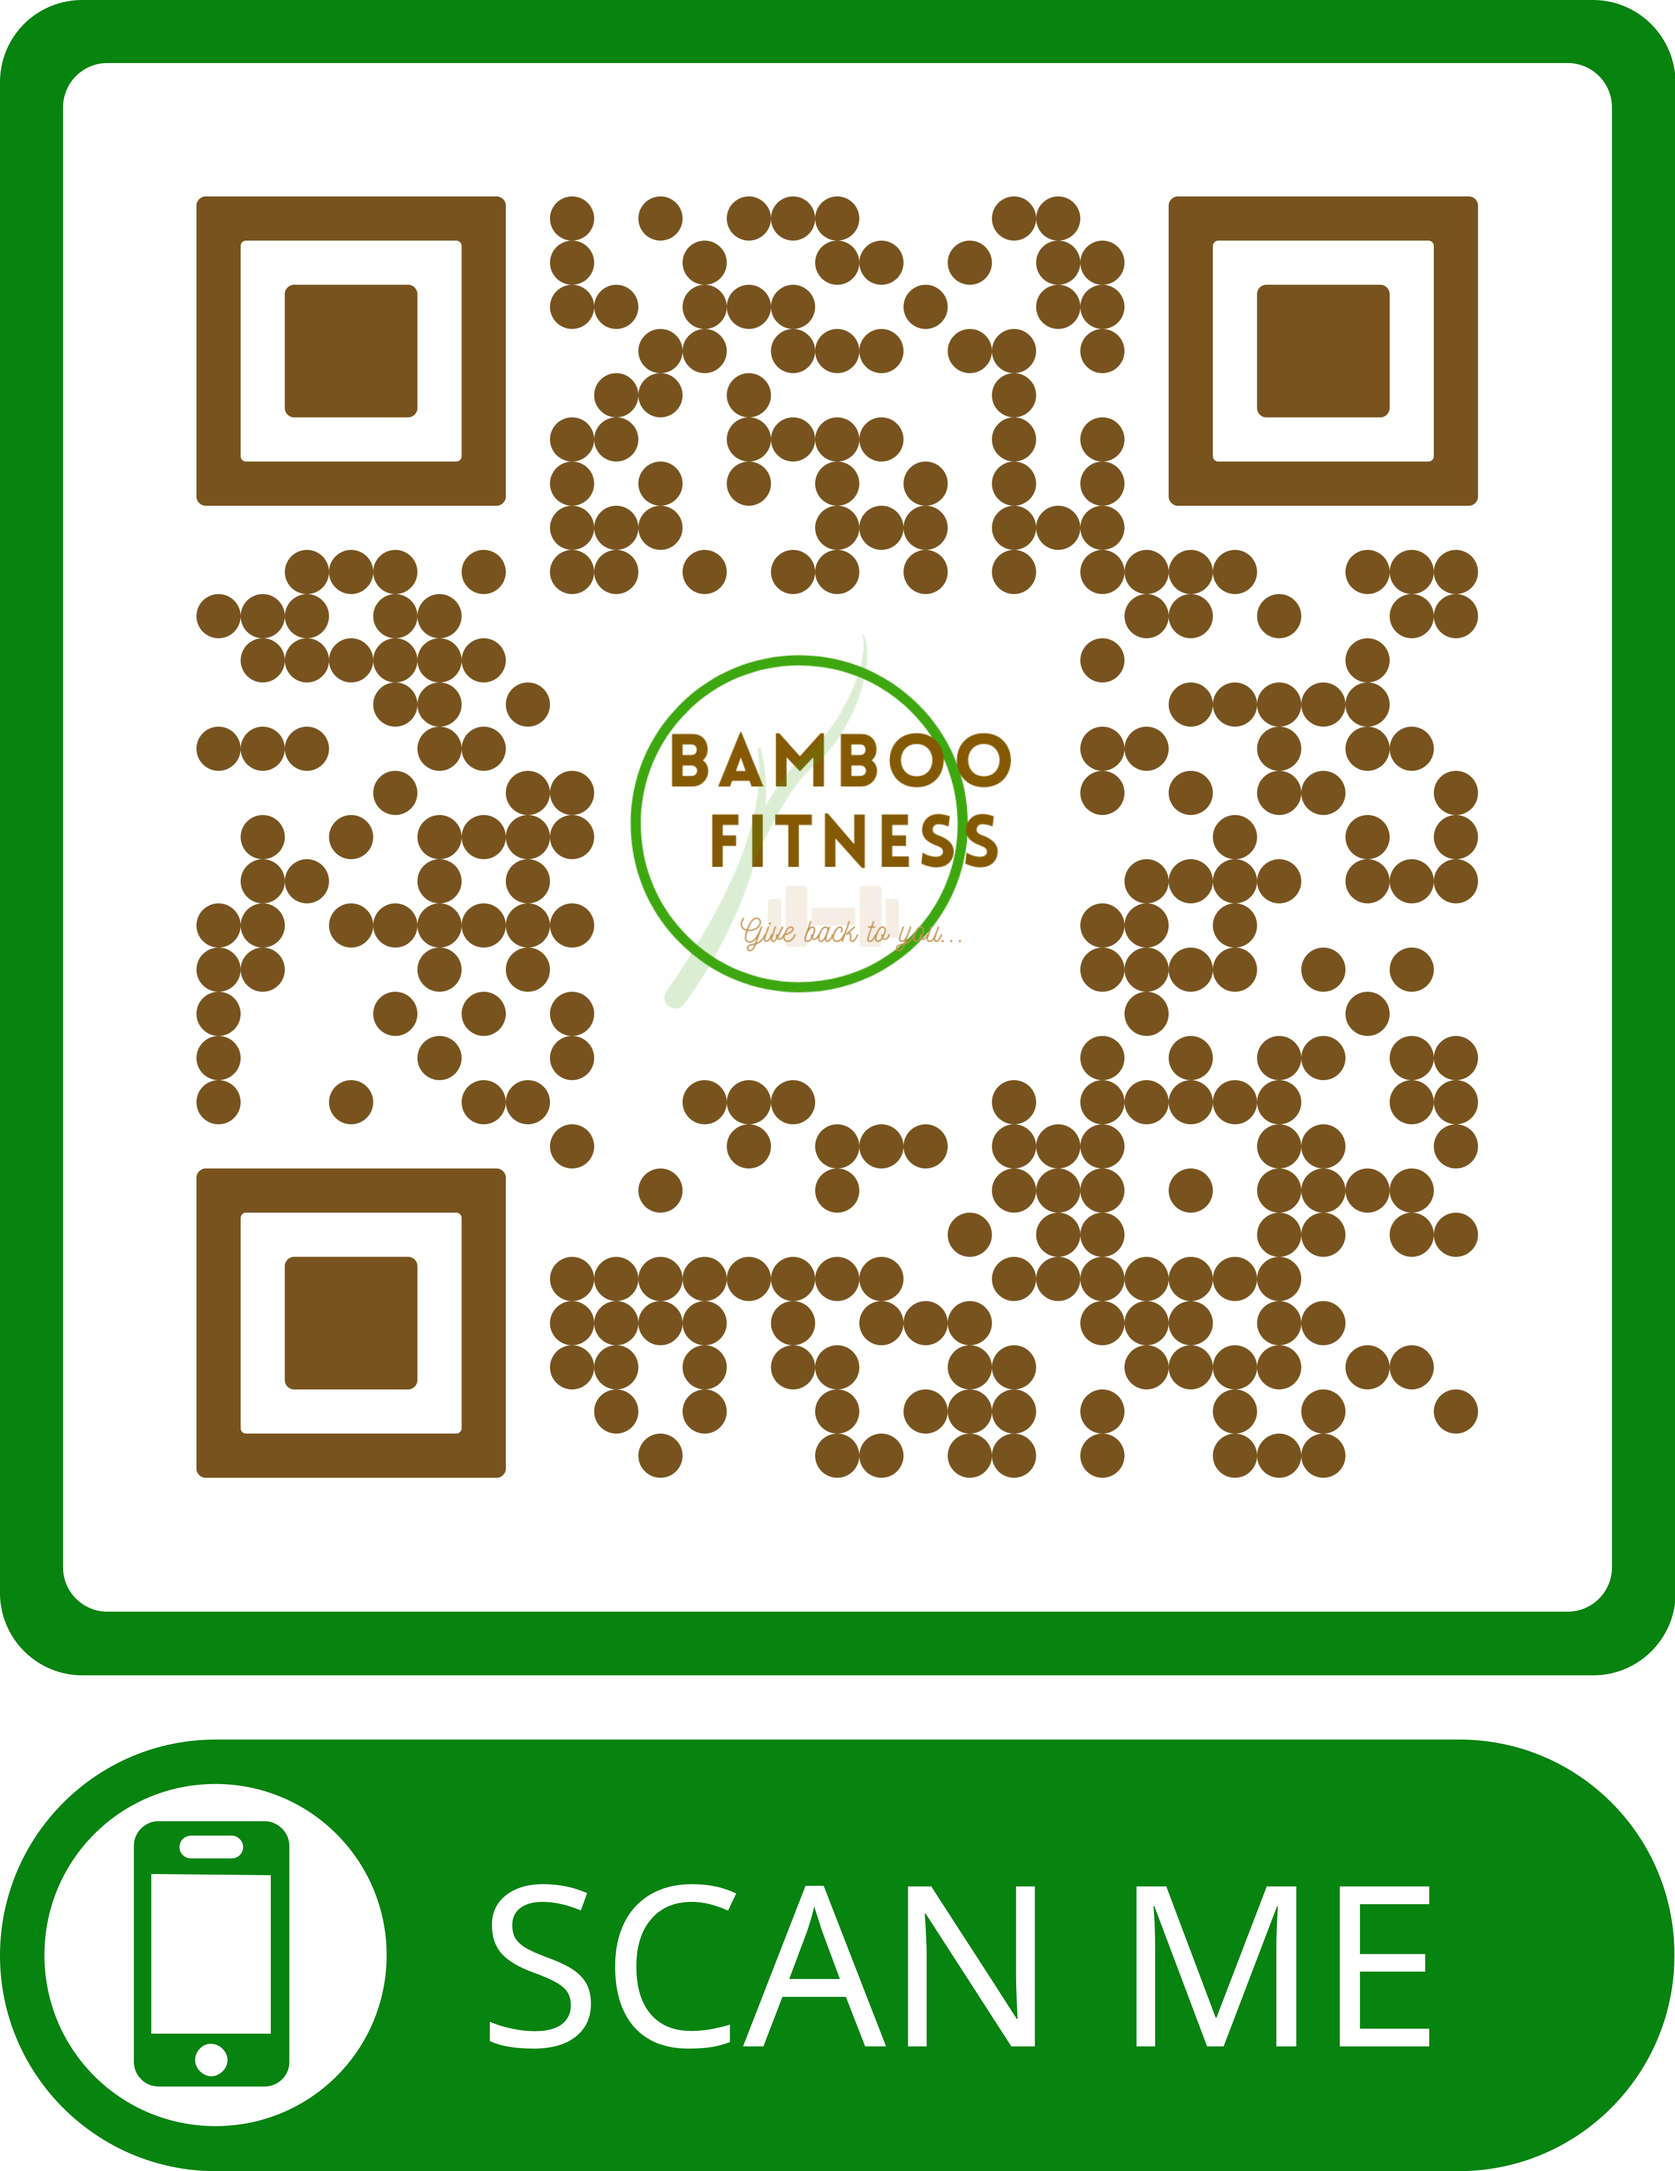
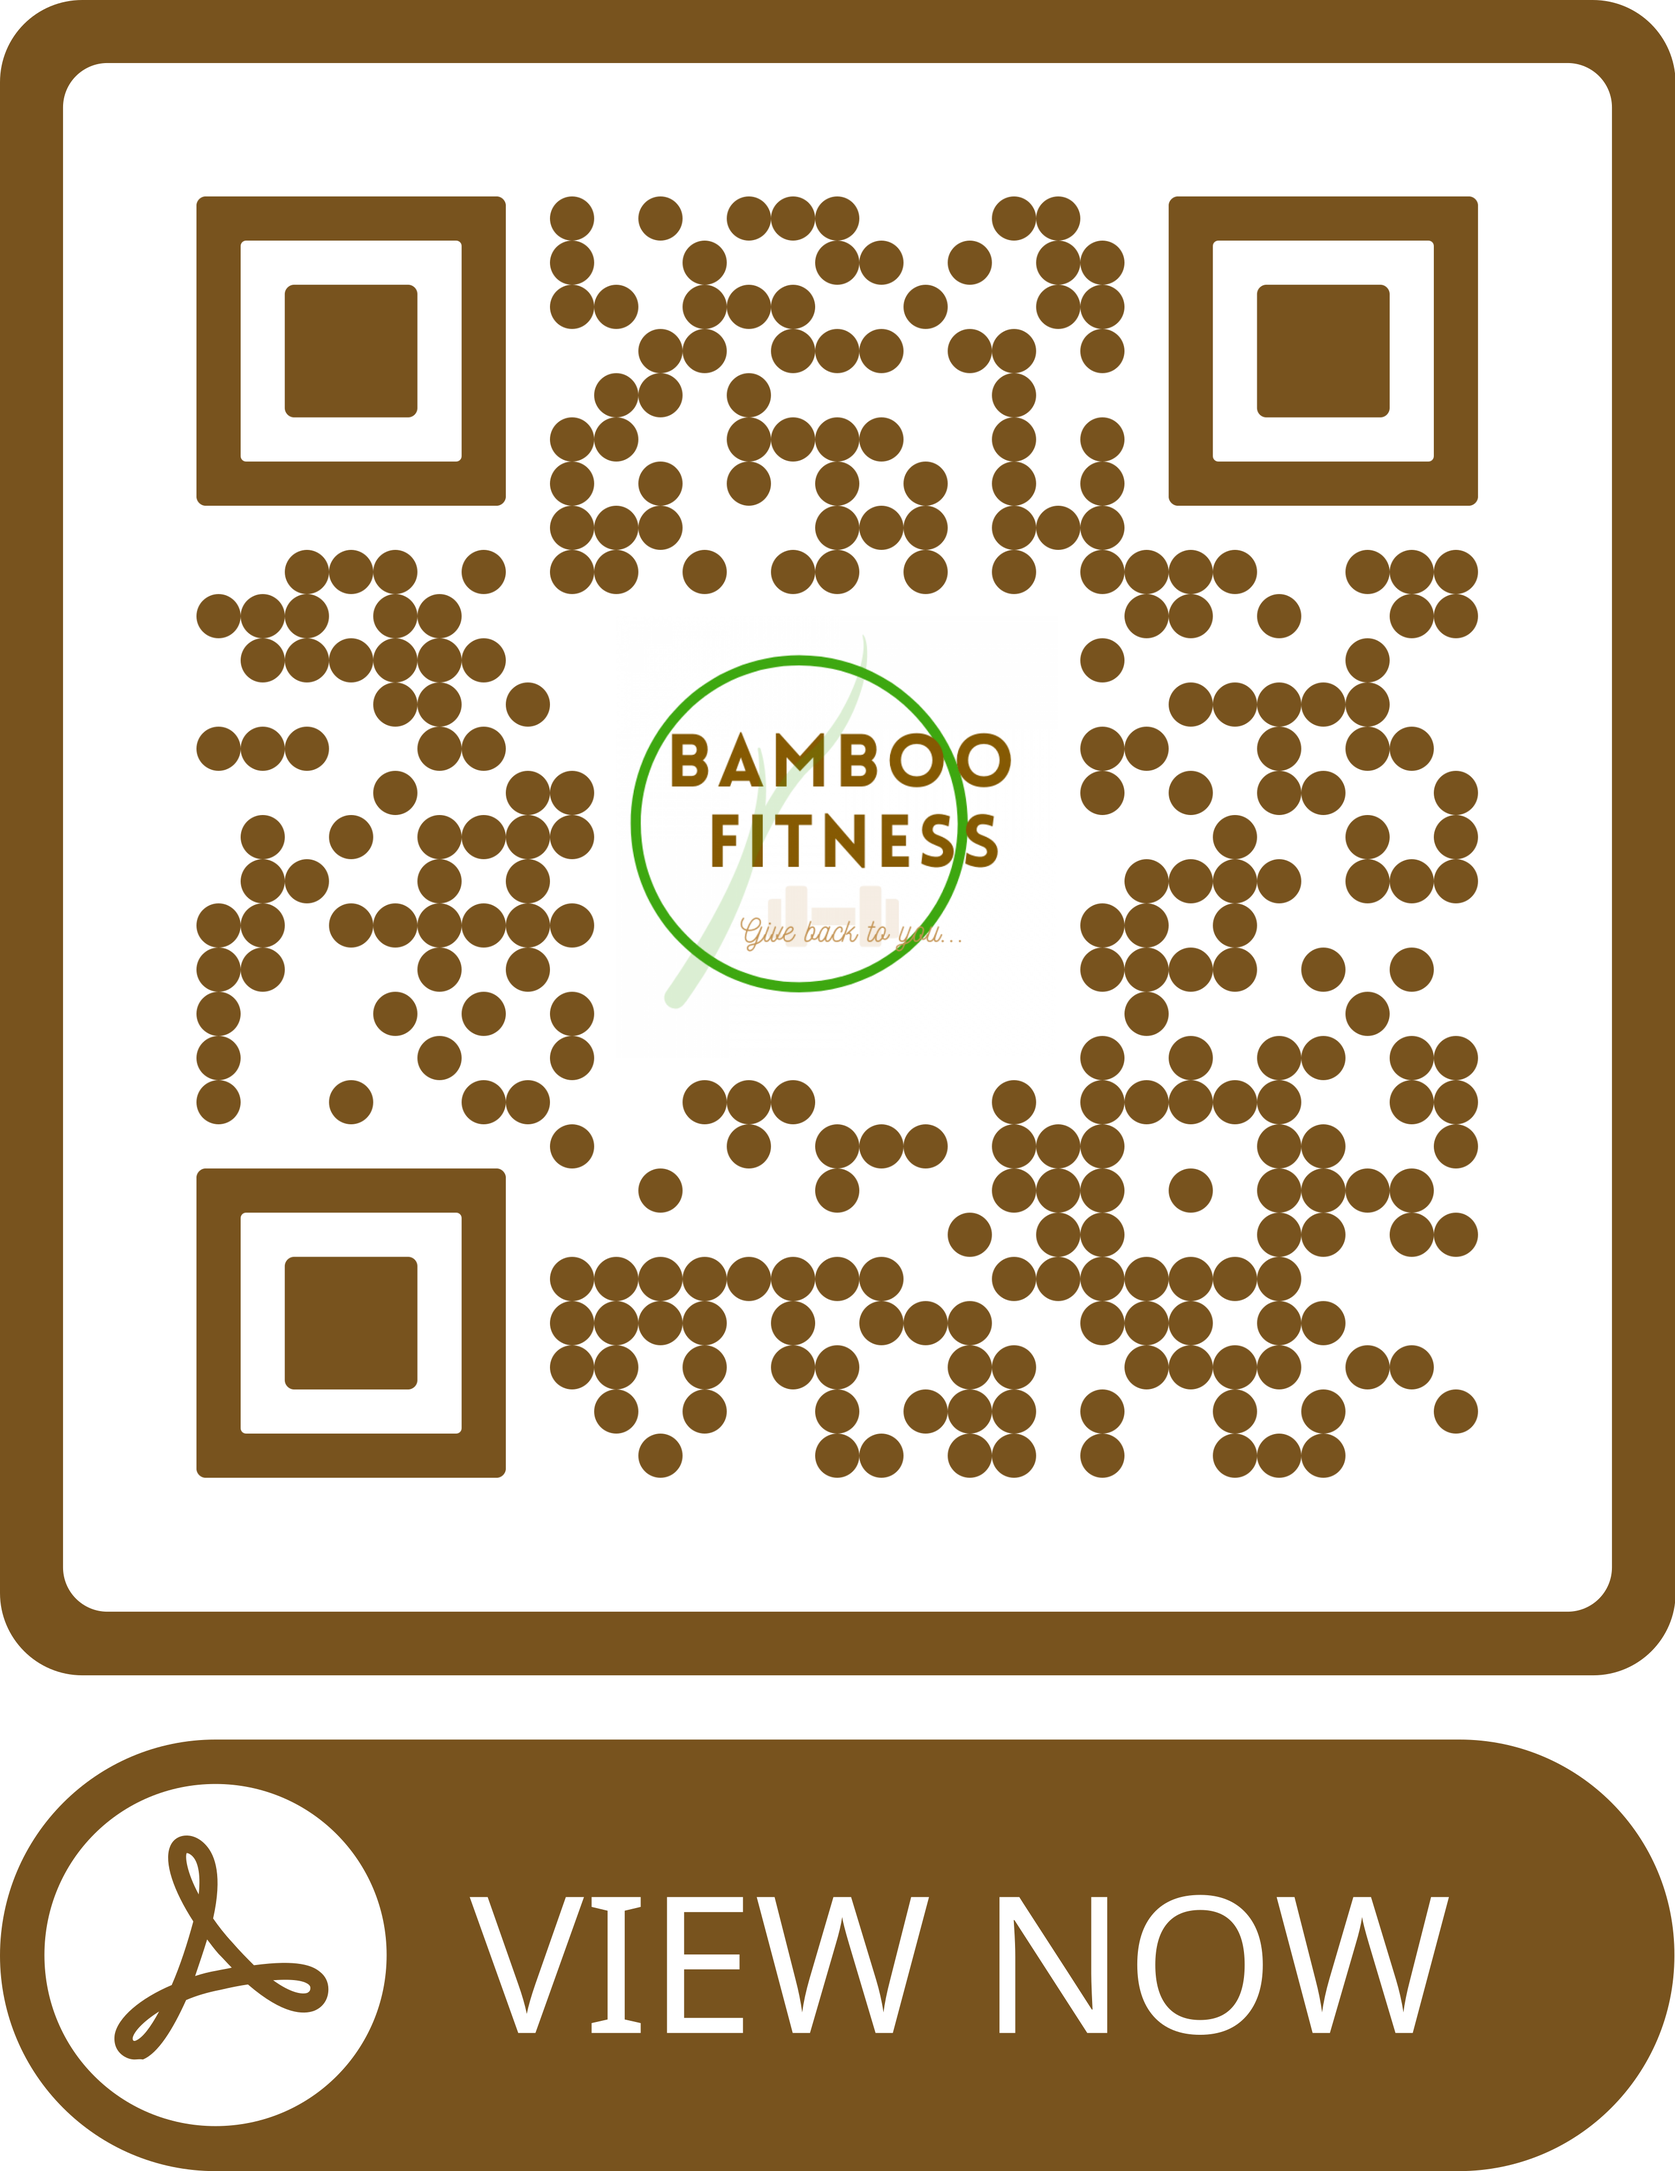
Readme file developed and qrcode + pdf link fixed

Changed region(s): [[0.0, 0.0, 1.0, 1.0]]

diff --git a/gallery.html b/gallery.html
@@ -97,22 +97,22 @@
 			<h2 class="membership-title-white uppercase" style="margin: auto;margin-bottom: 40px;">Videos</h2>
 				<div class="row videos">
 					<div class="col-lg-4 col-sm-12">
-						<video width="400" height="300" controls>
+						<a target="_blank" href="assets/videos/weights.mp4"><video width="400" height="300" controls>
 							<source src="./assets/videos/lift-weights.mp4" type="video/mp4" />
 							Video by Pressmaster from Pexels
-						</video>
+						</video></a>
 					</div>
 					<div class="col-lg-4 col-sm-12">
-						<video width="400" height="300" controls>
+						<a target="_blank" href="assets/videos/teach-gym.mp4"><video width="400" height="300" controls>
 							<source src="./assets/videos/teach-gym.mp4" type="video/mp4" />
 							Video by Pressmaster from Pexels
-						</video>
+						</video></a>
 					</div>
 					<div class="col-lg-4 col-sm-12">
-						<video width="400" height="300" controls>
+						<a target="_blank" href="assets/videos/train.mp4"><video width="400" height="300" controls>
 							<source src="./assets/videos/train.mp4" type="video/mp4" />
 							Video by Pressmaster from Pexels
-						</video>
+						</video></a>
 					</div>
 				</div>
 			</div>

diff --git a/classes.html b/classes.html
@@ -375,7 +375,7 @@
                                 >
                                     Close
                                 </button>
-                            <a href="assets/Class-Timetable.pdf" target="_blank"><button type="button" class="btn-cta">
+                            <a href="documents/Class-Timetable.pdf" target="_blank"><button type="button" class="btn-cta">
                                     DOWNLOAD PDF <i class="fas fa-file-pdf"></i>
                                     </button></a>
                         </div>

diff --git a/README.md b/README.md
@@ -1,22 +1,22 @@
-<img src="assets/images/BF-LOGO.png" style="margin: 0;">
+<img style="width:50%; margin:auto;" src="assets/images/BF-LOGO.png" style="margin: 0;">
 
-# Bamboo Fitness
+# **_Bamboo Fitness_**
 
-### A succint, accessible and expandable website for a gym and fitness company called 'Bamboo Fitness. The website allows current and potential members to access information about the gym while understanding the unique branding and ethos of the company.
-### The site encourages the advertisement of its charitable donations taken from the membership fees. The website offers a number of pages that increases the flow of current and new business to the company.
-### BUSINESS GOALS OF WEBSITE
-* ### To create an online presence for the gym as a service and unqique brand
+### _A succint, accessible and expandable website for a gym and fitness company called 'Bamboo Fitness. The website allows current and potential members to access information about the gym while understanding the unique branding and ethos of the company._
+### _The site encourages the advertisement of its charitable donations taken from the membership fees. The website offers a number of pages that increases the flow of current and new business to the company._
+### **BUSINESS GOALS OF WEBSITE**
+* ### To create an online presence for the gym as a service and unique brand
 * ### To generate new busines by advertising their services with attractive incentives
 * ### To maintian current business by providing full services information e.g class schedules & contact info
-### USER GOALS OF WEBSITE
-* ### Users as CURRENT members of gym
+### **USER GOALS OF WEBSITE**
+* ### Users as **CURRENT** members of gym
     * ### View opening hours of gym 
     * ### View the types of classes available
     * ### View information about the gym instructors and management
     * ### View/Download the Class Timeable
     * ### View Images and Videos from the gym in the Gallery
     * ### Access to main channels of contact information
-* ### Users as POTENTIAL members of gym
+* ### Users as **POTENTIAL** members of gym
     * ### To learn about the gym and its services
     * ### Direct link to pursuing a membership with the gym 
     * ### To access information about the memberships available e.g. prices
@@ -24,26 +24,32 @@
 
 
 
-## UX  
-### Who is the website for?
-#### The ideal new client for Bamboo Fitness:
-* Has an interest in joining the gym and fitness
-* Has disposable Income
-* Local resident or within a reasonable travel radius
-* Wants to improve their fitness 
-* Likes to give to charity
-* Has an interest in the environment
+## **UX** 
+### **Who is the website for?**
+### The ideal new client for Bamboo Fitness:
+* ### Has an interest in joining the gym and fitness
+* ### Has disposable Income
+* ### Local resident or within a reasonable travel radius
+* ### Wants to improve their fitness 
+* ### Likes to give to charity
+* ### Has an interest in the environment
 
 
-### What do the new visitors want?
-New visitors to Bamboo Fitnes want to know what the gym is and what it offers. They want to know about the memberships available and what makes the gym suitable for them i.e price, location, facilities, classes etc.
+### **What do the new visitors want?**
+### New visitors to Bamboo Fitnes want to know what the gym is and what it offers. They want to know about the memberships available and what makes the gym suitable for them i.e price, location, facilities, classes etc.
 
-### What does the website do?
-The website's objective is to target these potential clients and advertise their services on offer. This along with the additional incentives of giving to charity provides a strong USP for the gym. This then encourages the user to join by completing a short form that will allow for them to be contacted to get their membership started.
-
-### USER STORIES
+### **What does the website do?**
+### The website's objective is to target these potential clients and advertise their services on offer. This along with the additional incentives of giving to charity provides a strong USP for the gym. This then encourages the user to join by completing a short form that will allow for them to be contacted to get their membership started.
 
 
+Structure
+
+### **Technologies Used**
+* ### HTML / HTML5
+* ### CSS / CSS3
+* ### Bootrap Version 4.7/5
+
+### **USER STORIES**
 * As a new vistor, I want to join a gym, so that I can improve my fitness.
 * As an interested visitor, I want information about gym membership prices, so that I can decide what suits my needs.
 * As a new and potential member, I want to see images and videos of the gym, so that i can see what facilities they have.
